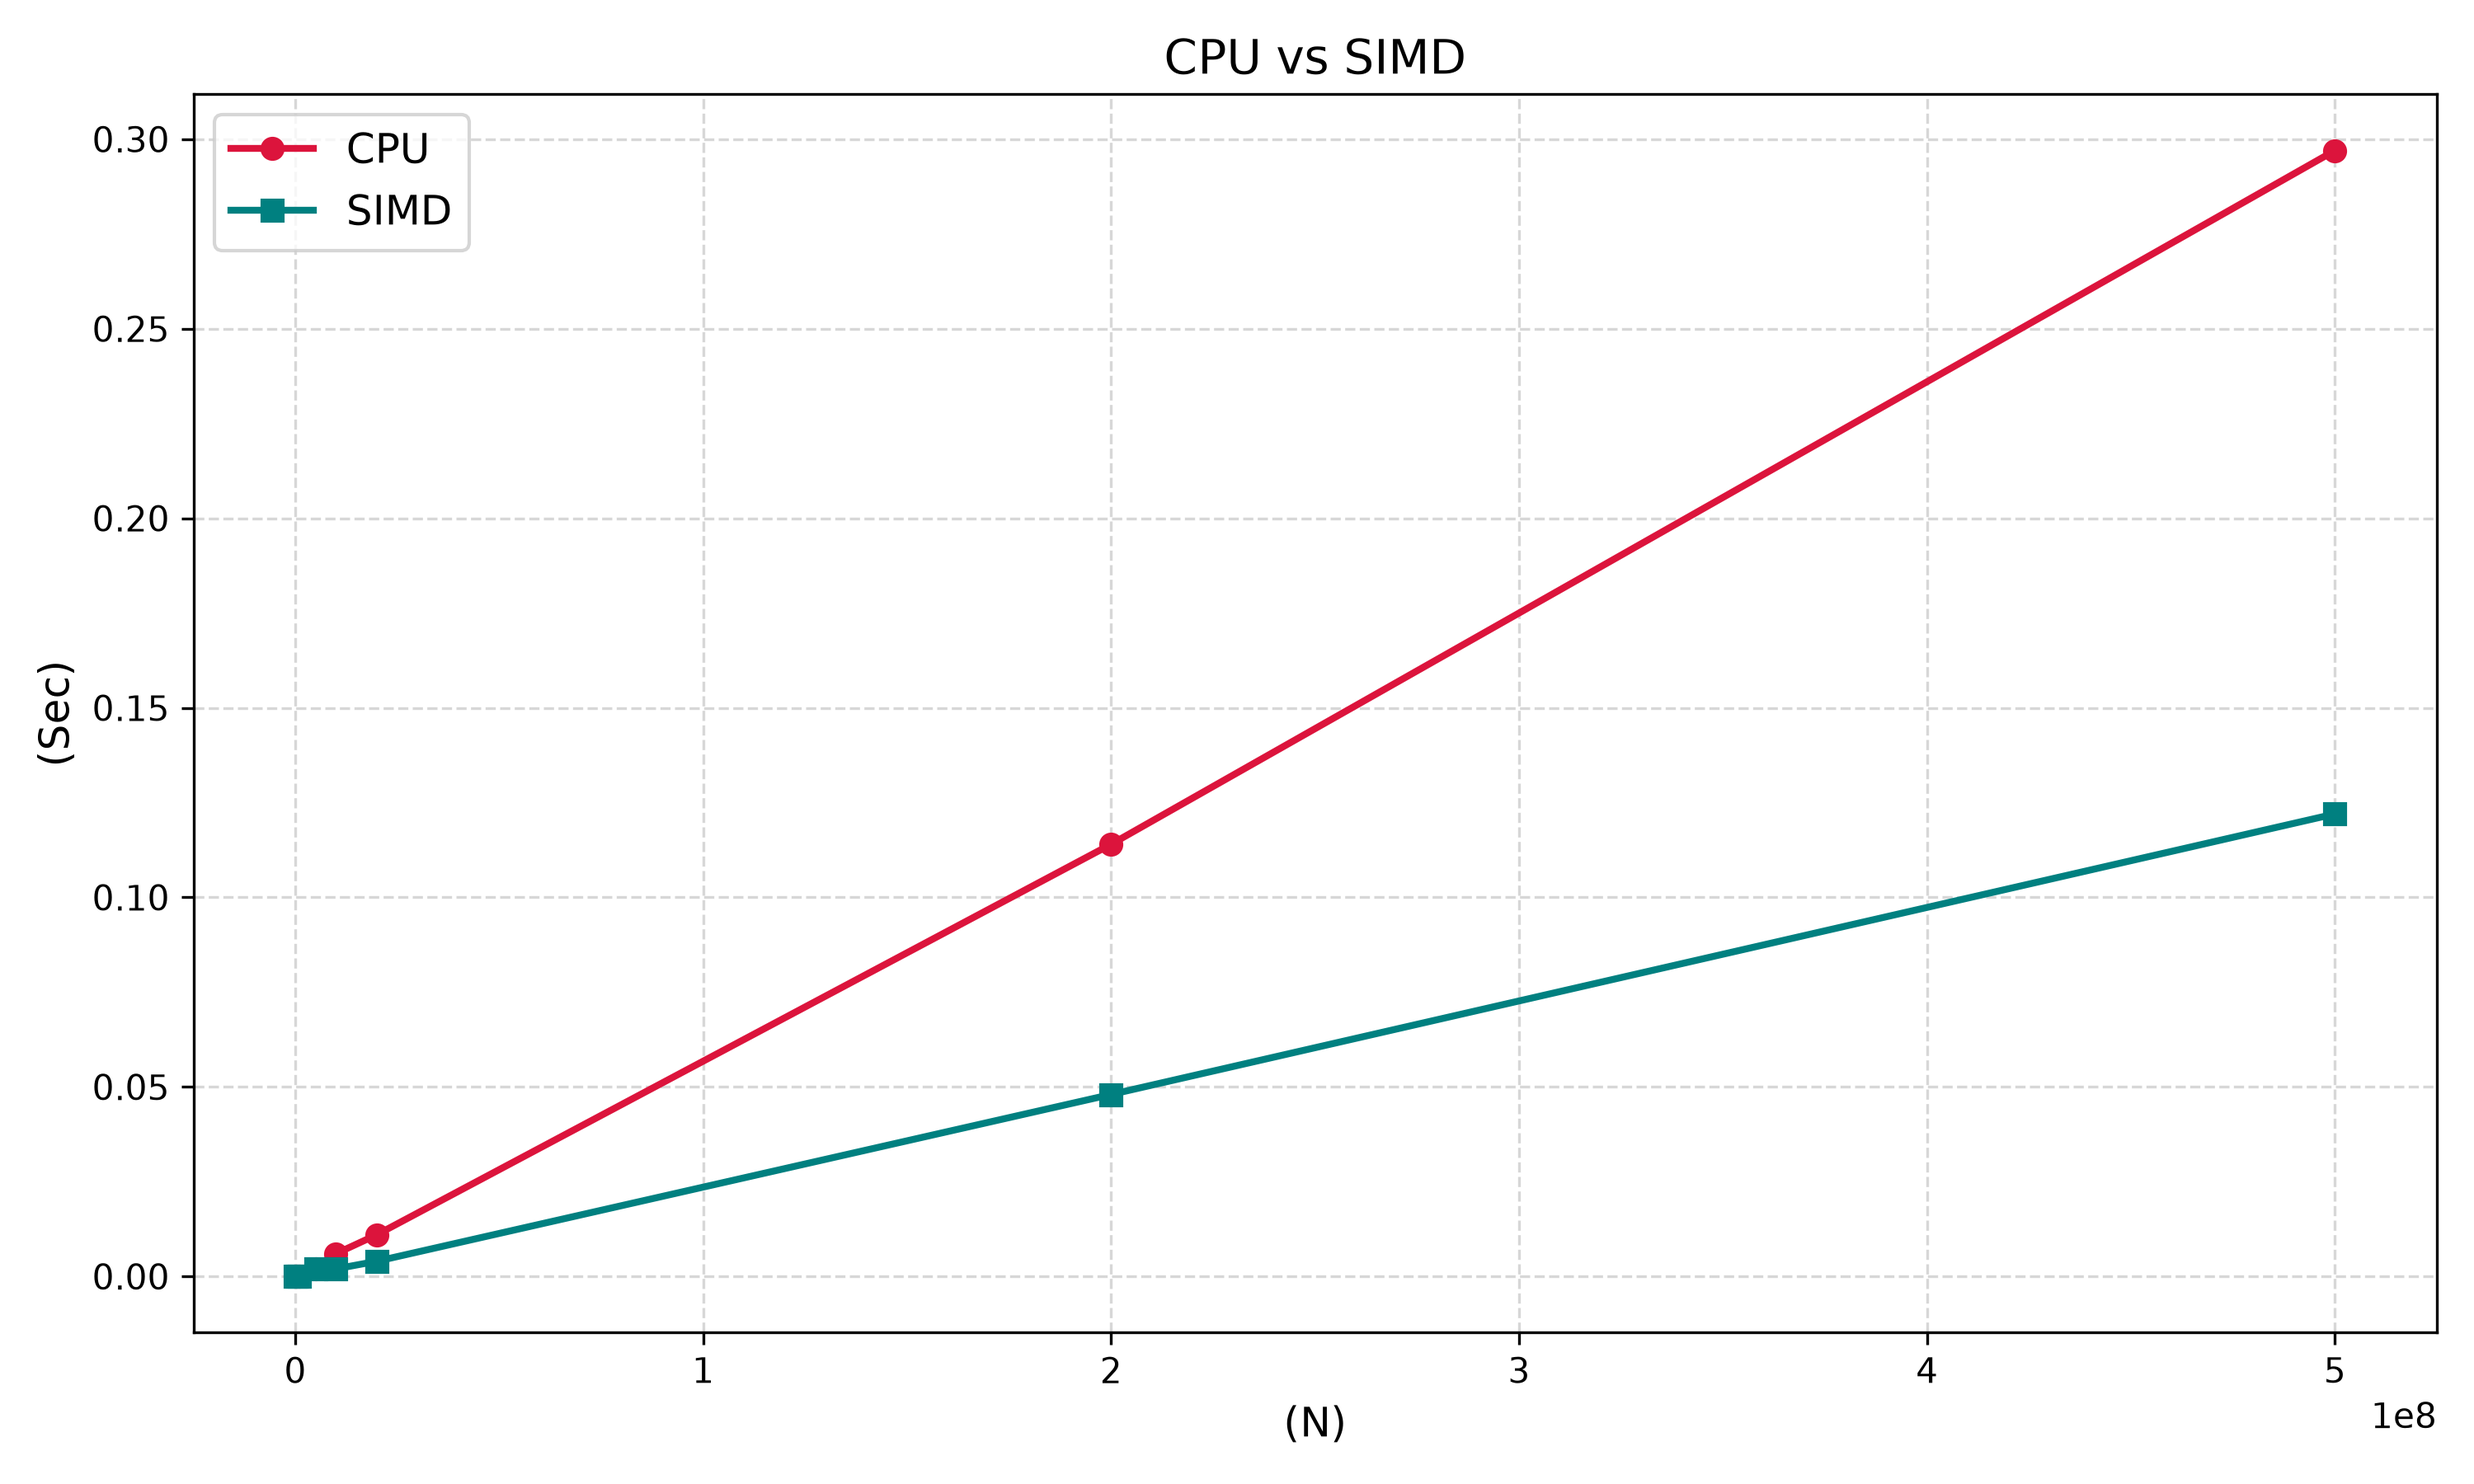
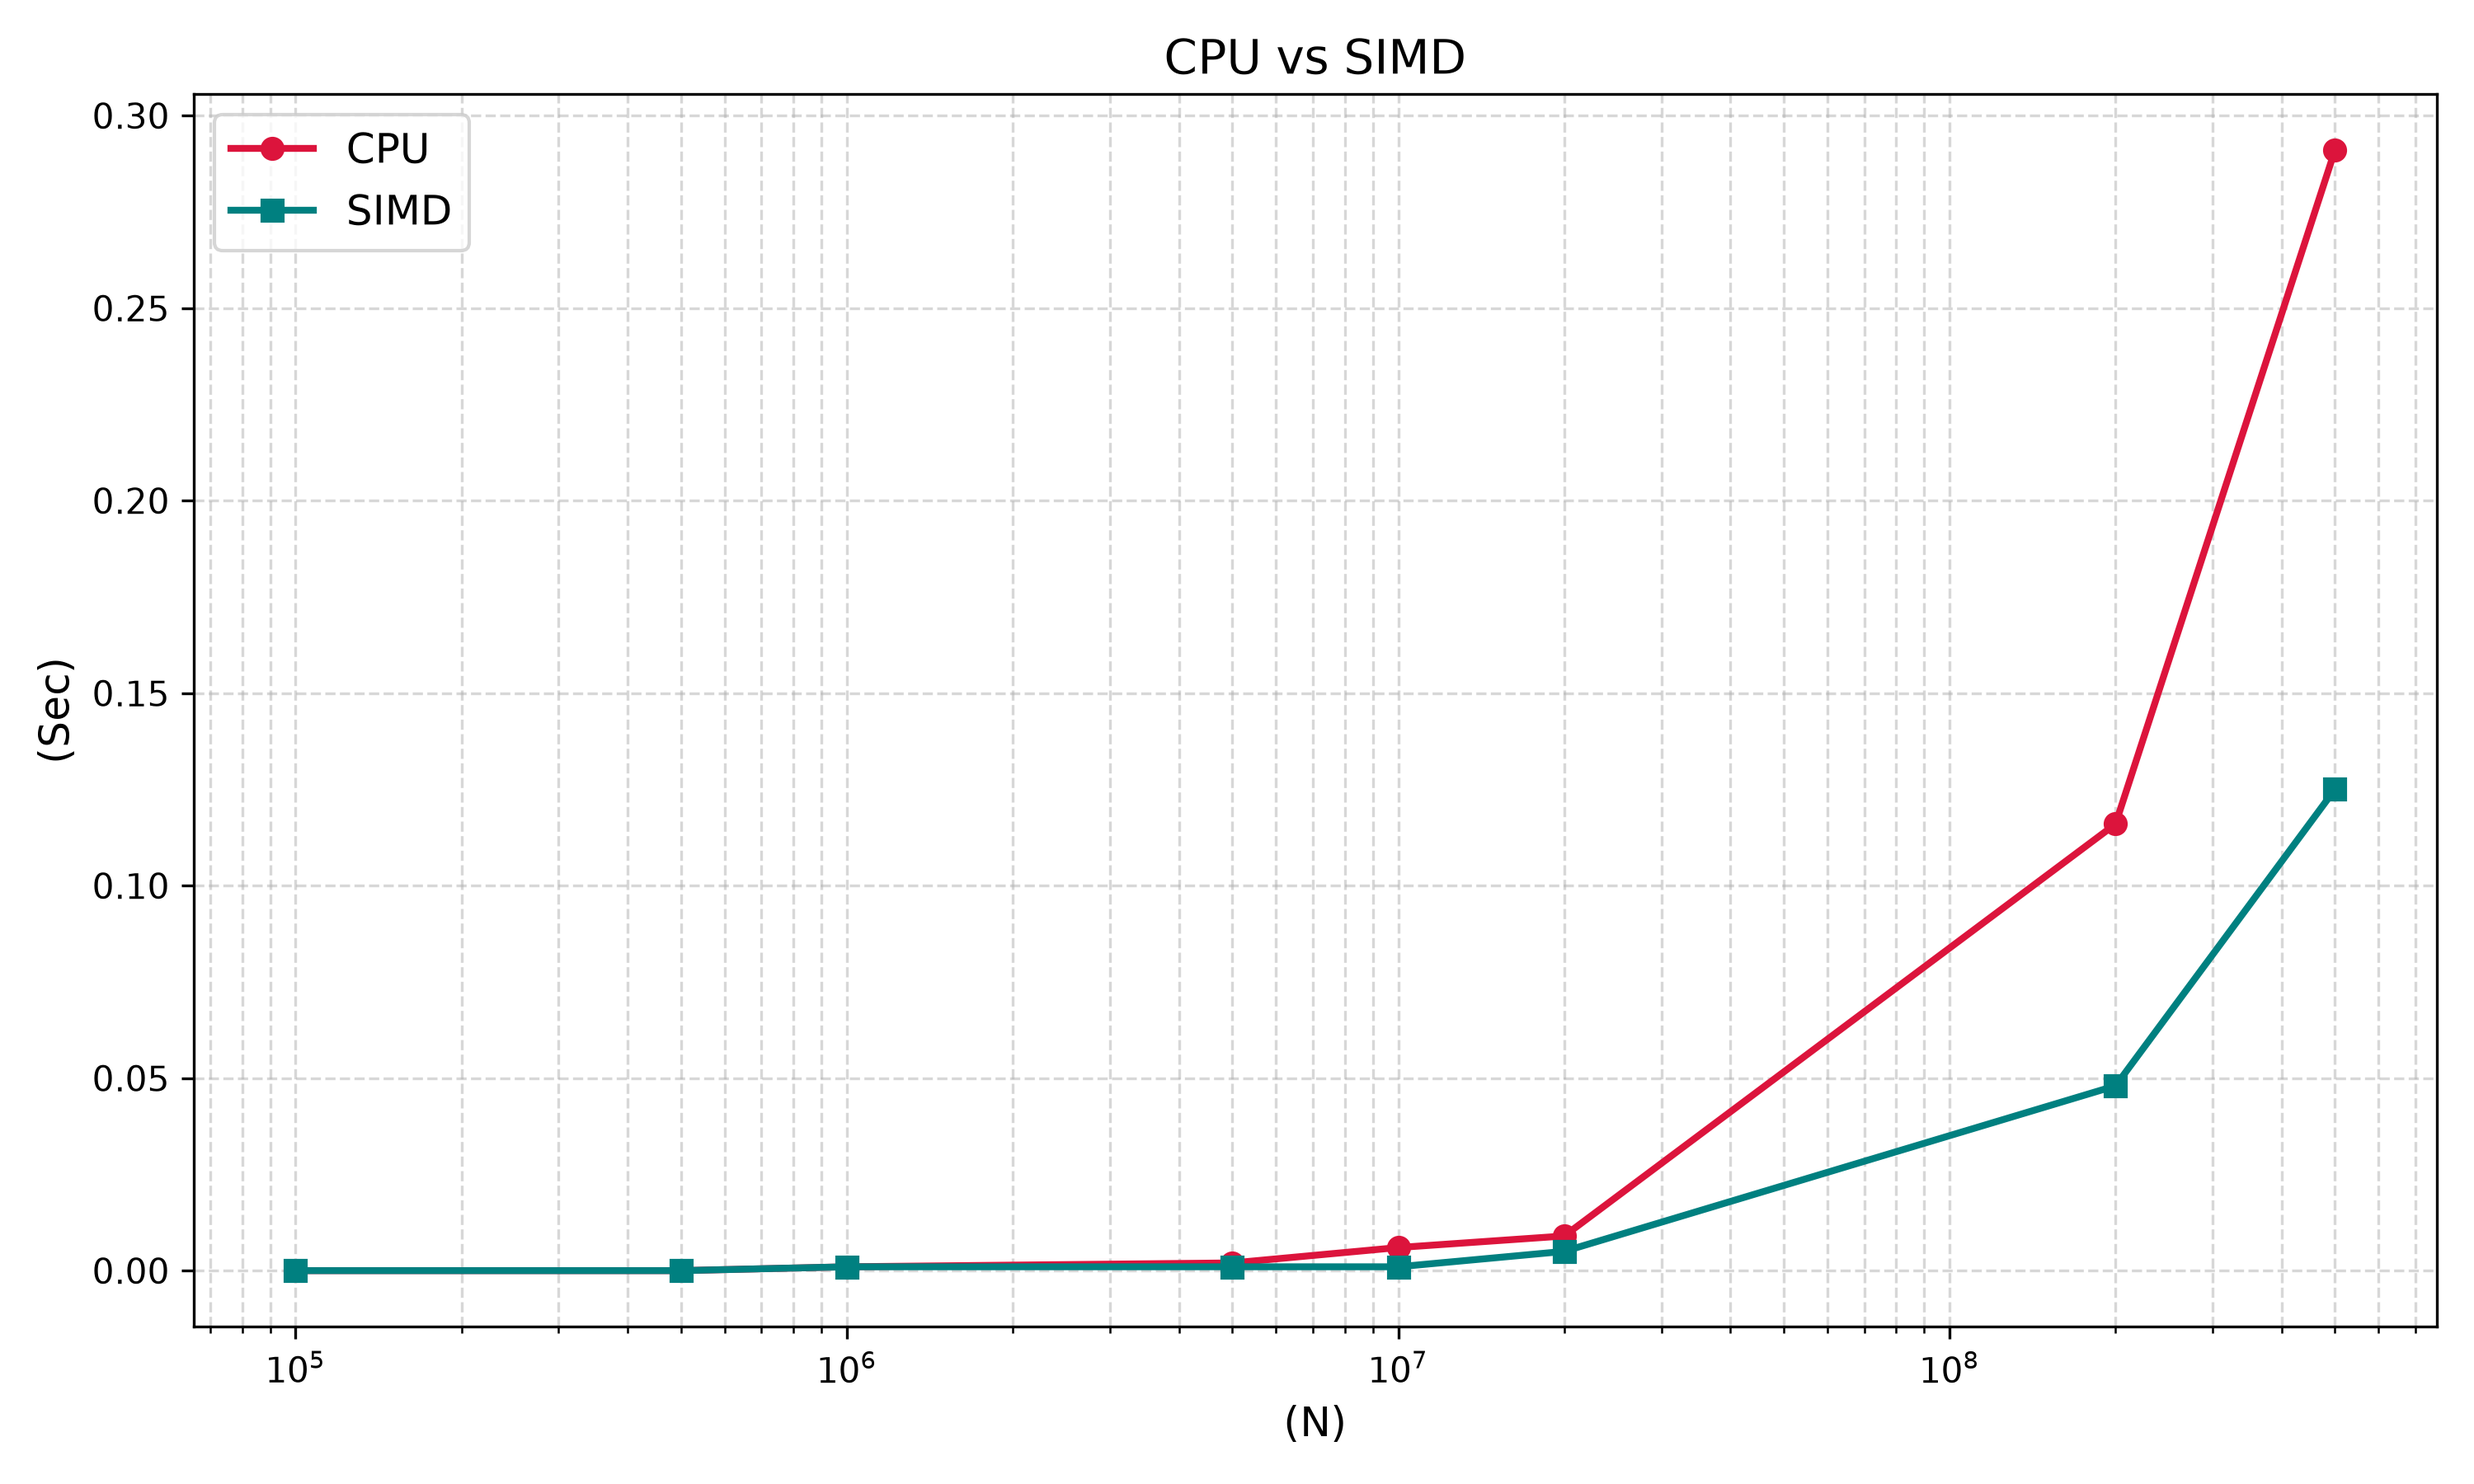
update graph

diff --git a/graph/main.py b/graph/main.py
@@ -40,7 +40,7 @@ def main():
     plt.grid(True, which="both", linestyle='--', alpha=0.5)
     plt.legend(fontsize=12)
 
-
+    plt.xscale('log')
     plt.tight_layout()
     plt.savefig('performance_comparison.png', dpi=300)
     plt.show()
